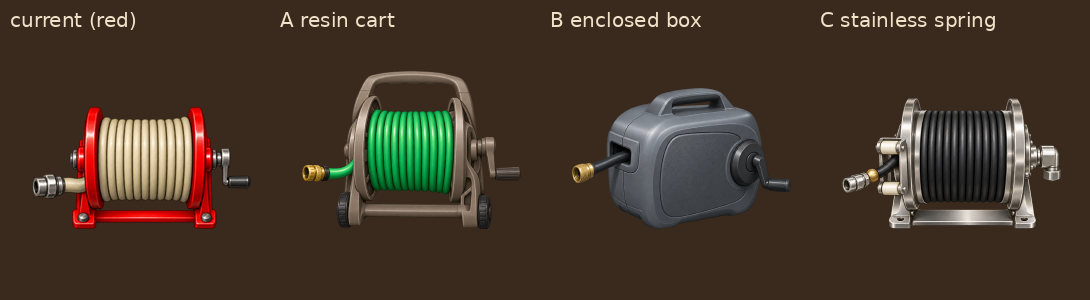
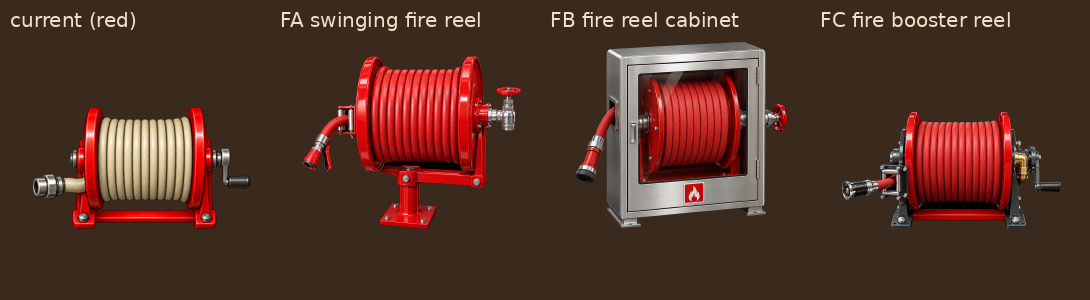
Modern hose reel: fire-hose-reel research (12 sources) + 3 drafted options, all facings; phone set rebuilt
Not installed: the owner picks.

Claude-Session: https://claude.ai/code/session_01UmAxvyKSBNSaP4CrEDGU1r

diff --git a/design/RimMandrake/flowworks_modern_art_brief.md b/design/RimMandrake/flowworks_modern_art_brief.md
@@ -109,3 +109,31 @@ or a grey composite pump with a pressure switch), `Sprinkler/Modern/RM_Sprinkler
 `Hose/Styles/Modern/{Coupling_Bare,EndCap_Bare,Nozzle_Bare,Mouth,Binding,Strand_Flat,Strand_Plump}.png`, joins
 `Joins/Modern/{Coupler,Flange,Saddle}.png`, and the non-liquid Modern pipe/pipe-pole/weir/drawbridge/suspension sets.
 Each deserves the same M1–M4 look; the pump is the next most visible.
+
+## Fire hose reels — owner, 2026-10-22, on the reel options card: *"Try looking up firehose reel"*
+
+None of the three garden/commercial reels was picked; the Modern reel is to be a **fire hose reel**. Real modern classes
+(sources below):
+- **Swinging fire hose reel (EN 671-1)** — a red pressed-steel drum on a swing-arm wall/pedestal bracket that pivots
+  out, red semi-rigid hose (EN 694), a brass or chrome manual stop valve (or automatic valve in the hub), a red/chrome
+  jet-spray nozzle clipped to a holder, hose guide rollers. Always red (refs F1–F5).
+- **Hose reel cabinet** — the same red reel housed in a galvanised, red-painted or brushed stainless cabinet with a
+  solid or clear/wired-glass door, surface or recessed mounted (refs F6–F8).
+- **Booster reel / fire cart reel** — fire-apparatus booster reel (Hannay F series: steel, graphite or red, bevel-gear
+  manual rewind crank, 90° ball-bearing swivel inlet, red rubber booster hose) or a red powder-coated hose cart
+  (refs F9–F12).
+Judge: M1 applies (a fire reel, not a red-painted garden reel); red is the product colour here and passes M3.
+
+Sources:
+- F1 Angus Fire Tartan swinging arm hose reel — https://angusfire.co.uk/products-catalogue/tartan-swinging-arm-hose-reel
+- F2 Vigil swinging automatic hose reel (EN 671-1, LPCB) — https://www.fireprotectiononline.co.uk/fire-brigade-equipment/25mm-swinging-automatic-fire-hose-reel
+- F3 Swinging fire hose reel (manual) — https://www.fireprotectiononline.co.uk/fire-brigade-equipment/swinging-fire-hose-reel
+- F4 NOHA 1SW (red reel, 1" manual stop valve) — https://saval.nl/en/products/noha-model-1sw
+- F5 Pivaset PV-23A hydrant reel, automatic valve, "always red" — https://www.pivaset.fi/en/pv-23a/pv-23a-kela-550-150-25mm-25m-464
+- F6 NAFFCO fire hose reel cabinets (galvanised/stainless, solid or glass door, BS EN 671-1) — https://www.naffco.com/en/fire-hose-reel-cabinets-bsi-lpcb-approved-1
+- F7 PAR Group fire hose and hose reel cabinets (GRP) — https://www.par-group.co.uk/health-and-safety/fire-protection/fire-hose-and-hose-reel-cabinets/
+- F8 Fullblaze FB200 stainless double-door hose cabinet — https://fullblaze-me.smartway.co/products/4
+- F9 Hannay F24-23-24 RT booster reel, bevel gear manual rewind, red — https://www.flashwildfireservices.ca/products/hannay-reel-f24-23-24-rt
+- F10 Hannay booster hose reel — https://firesafetyusa.com/products/hannay-booster-hose-reel
+- F11 Hannay FF series (steel, graphite finish; swivel inlet) — https://www.dultmeier.com/hannay-ff-series-hose-reels-for-booster-hose-and-collapsible-fire-hose
+- F12 Fire Safety USA red powder-coated mobile hose cart — https://firesafetyusa.com/products/mobile-hose-cart

diff --git a/Transient/pile_2026-10-22/modern_art/progress.md b/Transient/pile_2026-10-22/modern_art/progress.md
@@ -86,3 +86,19 @@ f1c25b3a03 (item) · 2ef76419c3 (brief) · 50733d22fb (drafts, phone collections
 - Short A and B redrawn twice with a raised camera (v3, axis-aligned): A now shows a lit top with the lid as an
   ellipse; B is axis-aligned but its top face is still weak (the generator resists a high angle on horizontal drums) —
   flagged, not hidden. v1/v2 raws kept in D:\ClaudeWork\rimmandrake\modern_art\raw.
+
+## 9. Owner picks installed + fire hose reels (2026-10-22, later)
+- Owner by card: short A white leg tank, tall B green poly, cargo B IBC steel, extra-tall A white poly → installed with
+  `art.py install` (--owner-said carries the card label; art.py has no --by-card), fb34c9bc2d. Selftests looks_round +
+  liquid_look_tune GREEN; tanks are Graphic_Single, no geometry tool reads them. Not deployed.
+- Reel: none picked; owner "Try looking up firehose reel". Brief gained a fire-hose-reel section (12 sources F1–F12).
+- Fire reel drafts (`drafts/Reel_{PumpHookup,Deployed}{,_north,_south}_F{A,B,C}.png`): FA swinging pedestal fire reel
+  (EN 671 style, red drum, handwheel stop valve), FB stainless fire-reel cabinet with glass door, FC Hannay-style red
+  booster reel with bevel-gear crank and brass swivel.
+- Self-judge: REDO and regenerated — FA stored south, FA laid-out north/south, FC laid-out north/south (the generator
+  turned the drum axis left-right, unlike the stored views); laid-out views were then drawn by emptying the matching
+  stored picture. KEEP all 18 now. Notes: FA laid-out west shows a steel-grey core where N/S show red (minor); FB's
+  turned views vary a little in cabinet proportion. Codex returned the three west masters as OPAQUE RGB on black despite
+  the prompt; cut by border flood fill (rembg was OOM-killed, rc 137).
+- Phone: garden-reel A/B/C images removed from phone/ (drafts kept); `RM_HoseReel_0_options.png` = current + FA/FB/FC;
+  per option full, true-scale, facings. All re-Read after the final build; tank option sheets verified intact (1596–1600 px).

diff --git a/infrastructure/state/lessons/20261023T024850Z-BENCH-codex-image-py-edit-can-return.md b/infrastructure/state/lessons/20261023T024850Z-BENCH-codex-image-py-edit-can-return.md
@@ -1,0 +1,1 @@
+codex_image.py edit can return an OPAQUE RGB picture on pure black even when the prompt asks for a real alpha channel (3 of 3 fire-reel masters, 2026-10-22): check im.mode after every render. rembg_cut.py was OOM-killed (rc 137) in the seat cgroup; a border flood fill over max-channel <= 10 cut the flat black cleanly because the subject never touched pure black.
